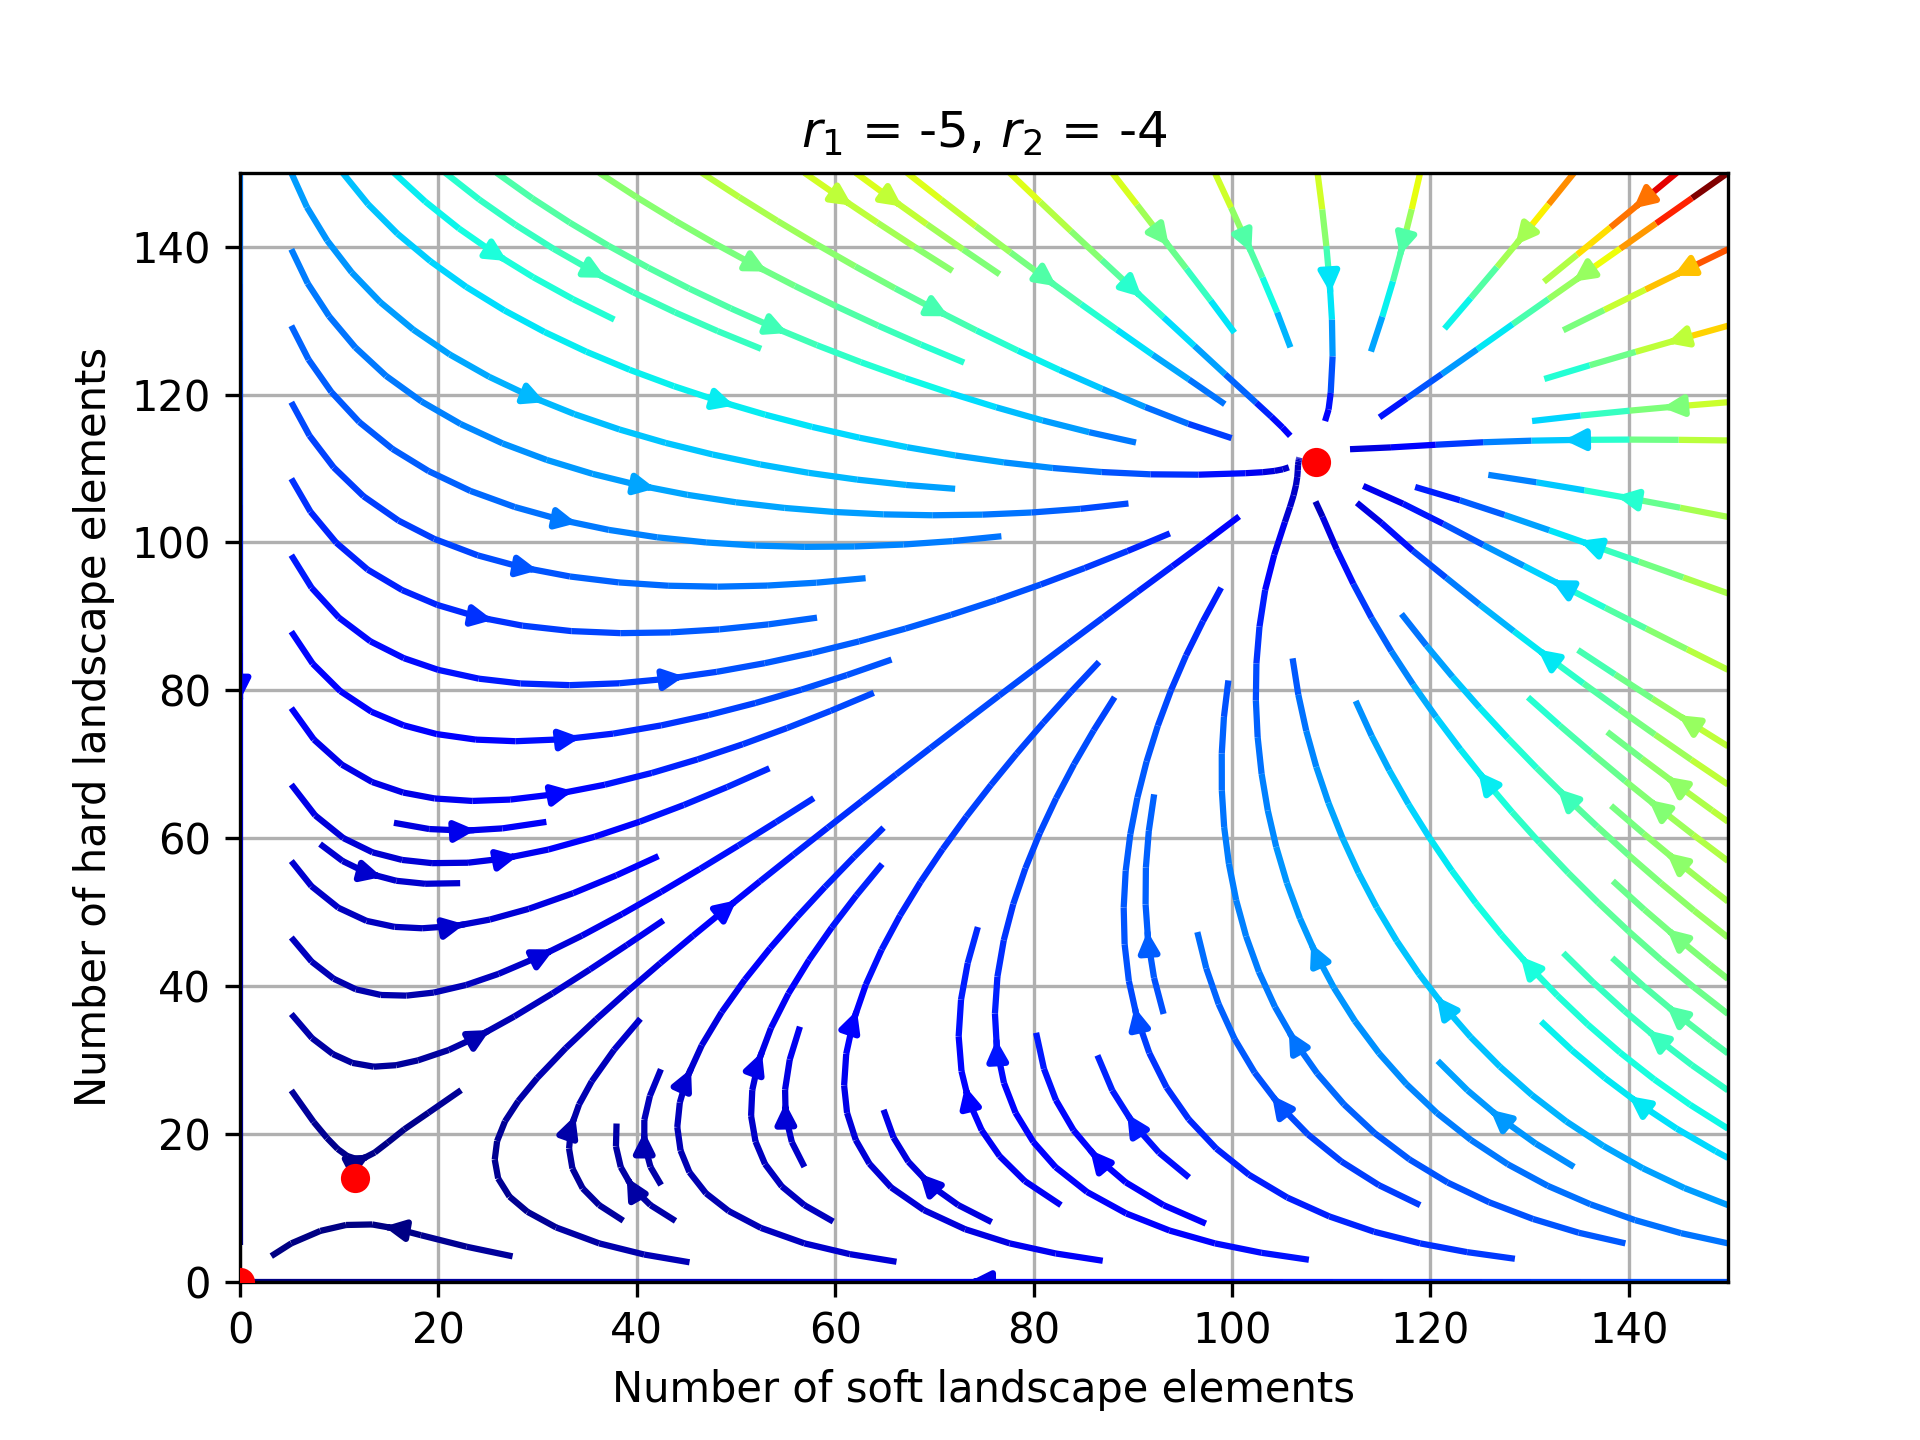
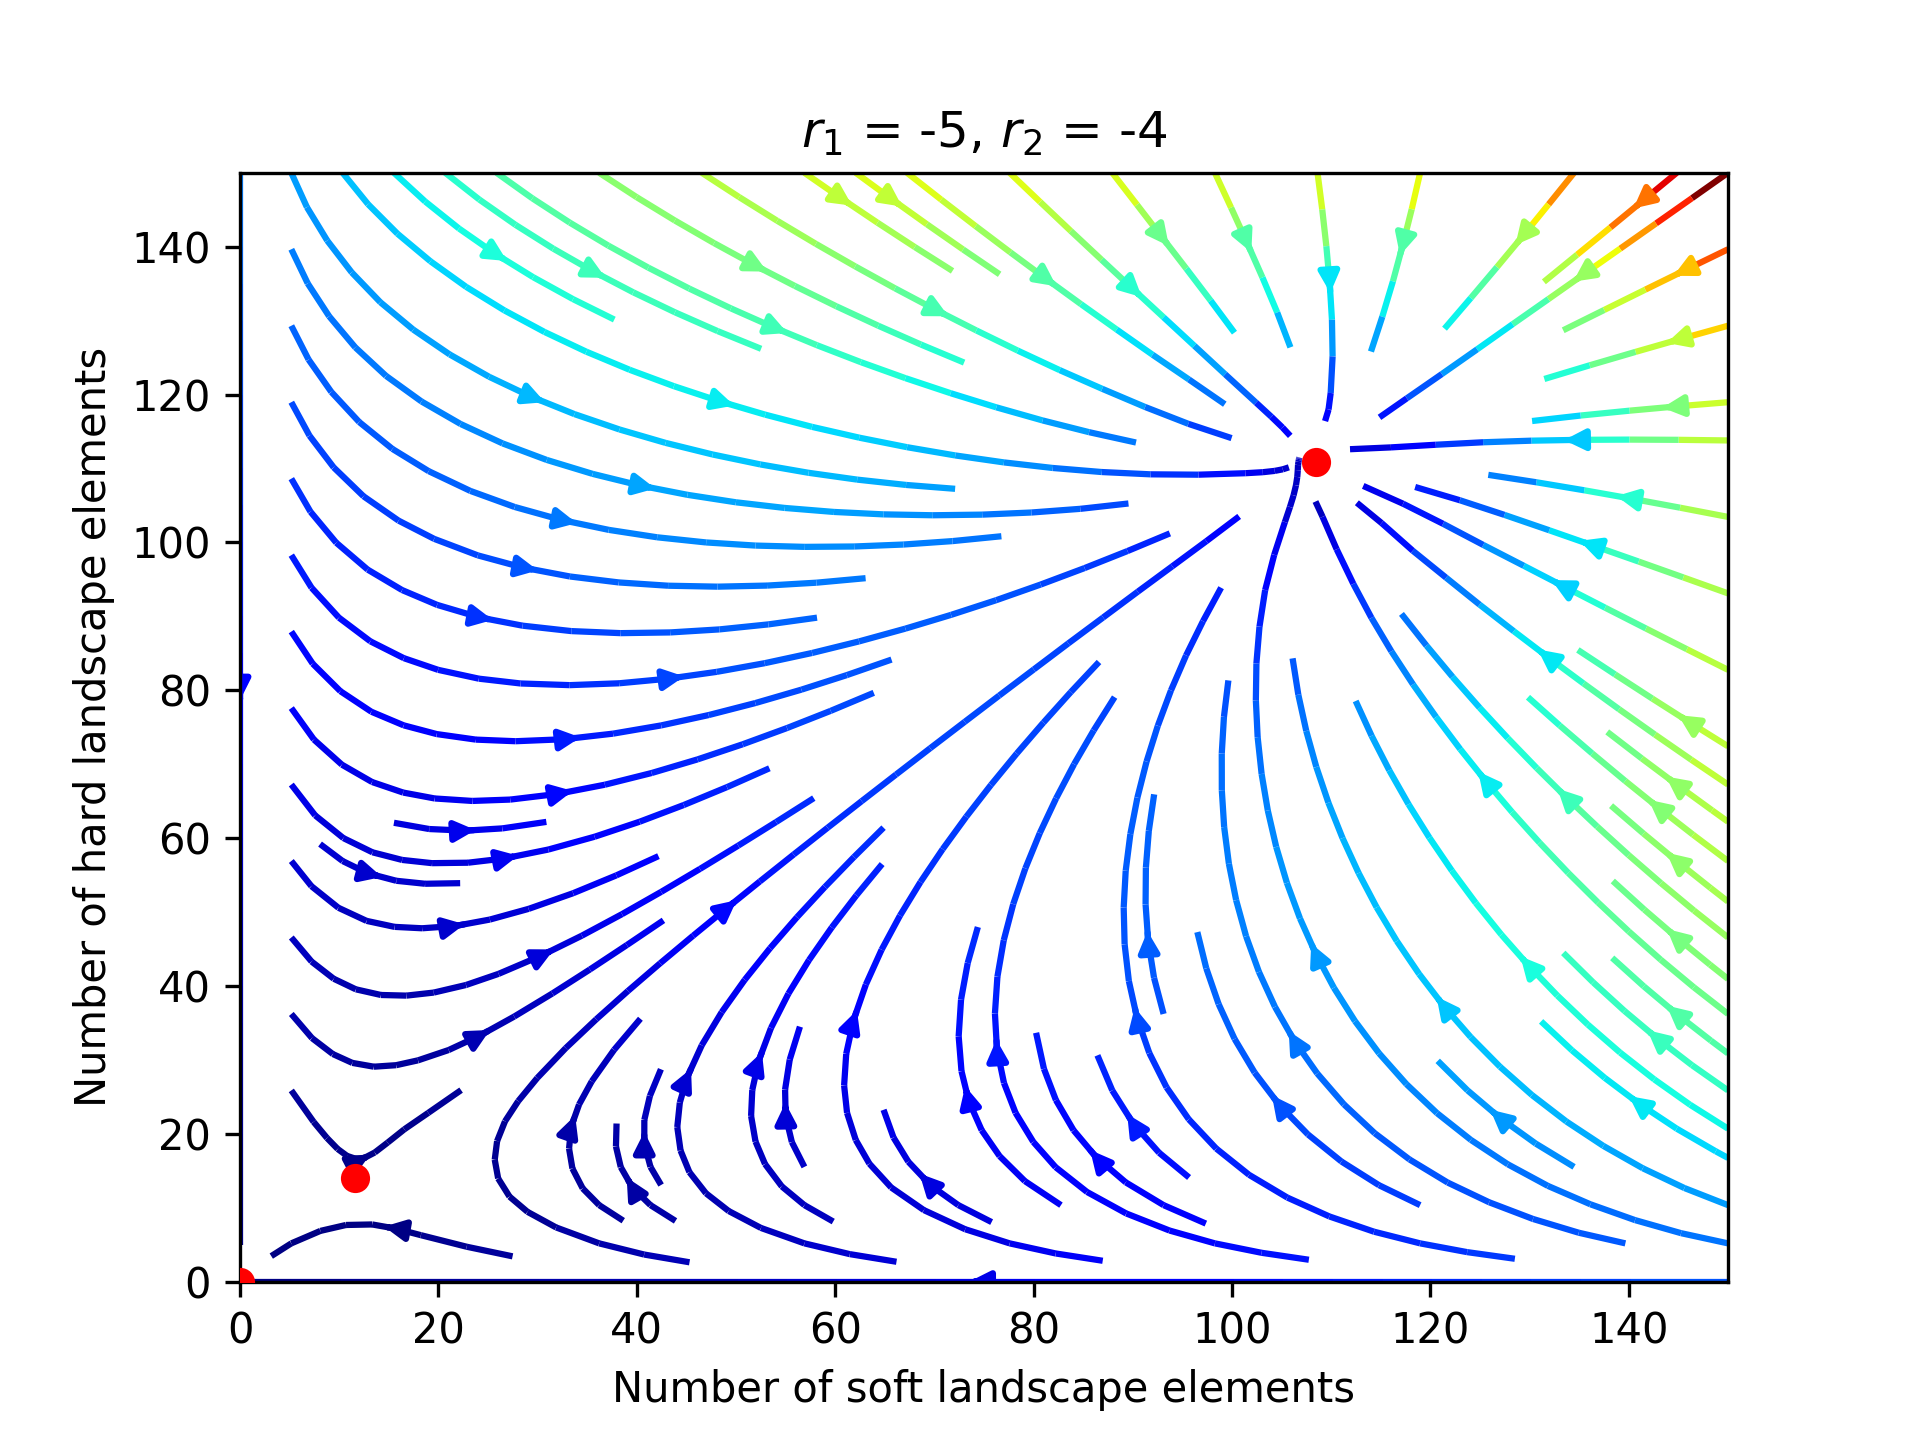
:bento: update streams to be grid off for landscapes

diff --git a/landscape_images.py b/landscape_images.py
@@ -221,13 +221,13 @@ images = [
         "r1": -10,
         "r2": 10,
         "arrow_style": "Stream",
-        "grid_toggle": "On",
+        "grid_toggle": "Off",
     }),
     ("stream_mutual_dependence", {
         "r1": -5,
         "r2": -4,
         "arrow_style": "Stream",
-        "grid_toggle": "On",
+        "grid_toggle": "Off",
     }),
 ]
 
